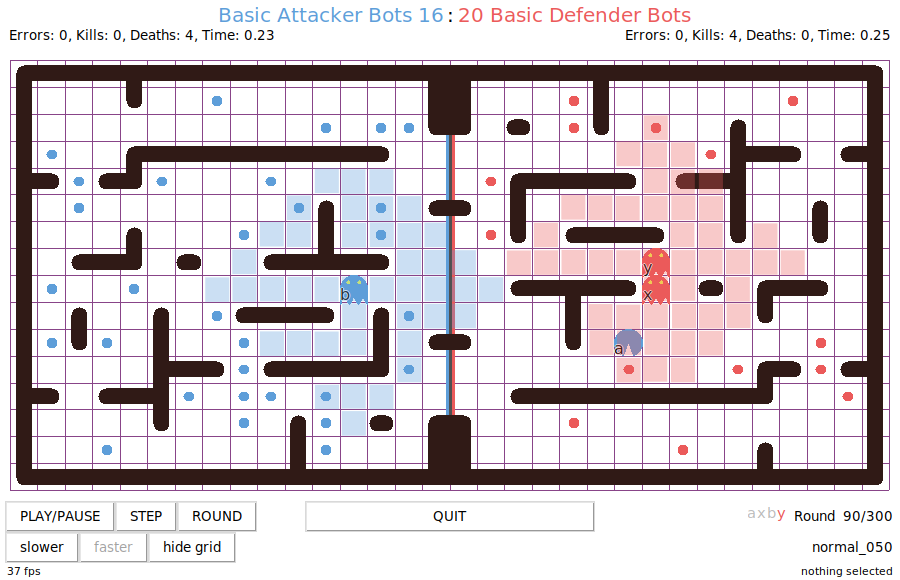
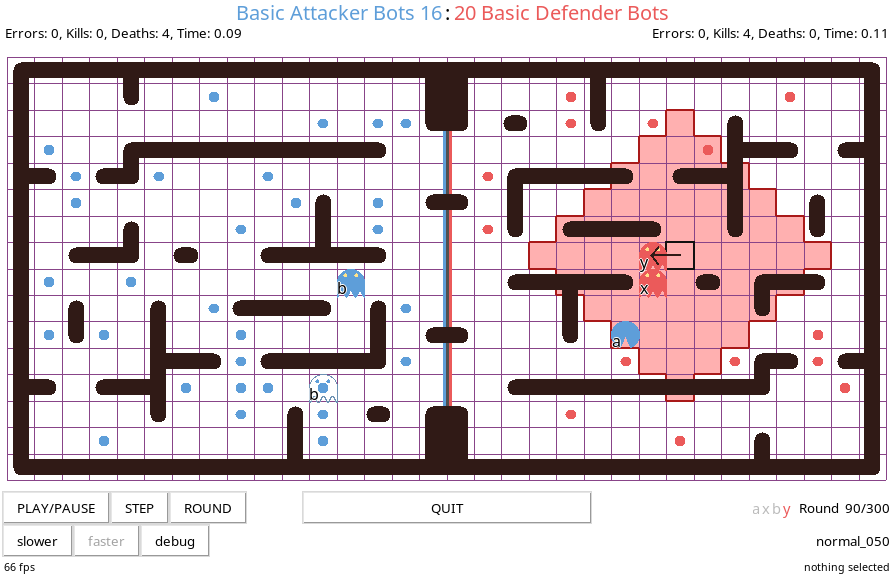
updated text and screenshot for is_noisy

diff --git a/README.md b/README.md
@@ -373,7 +373,7 @@ Note that the `Bot` object is read-only, i.e. any modifications you make to that
 
 - **`bot.enemy[0].team_name`** you can also inspect the enemy team name with `bot.enemy[0].team_name`.
 
-- **`bot.enemy[0].is_noisy`**  <a id="is-noisy"></a> your bot has a sight-radius of 5 squares. This means that when an enemy bot is located more than 5 squares away from your bot, `bot.enemy[0].position` will not be exact and `bot.enemy[0].is_noisy` will be `True`. The sight-radius for red bot `y` is the red area in the picture below. Red bot `y` will see the exact position of blue bot `a`, because it falls into its sight-radius. Instead, red bot `y` will see blue bot `b` as if it were located in one random legal position up to 5 squares away from its true position (this is the noise-radius, the blue area around blue bot `b` in the picture). An example of using the `is_noisy` property is given in [demo05_basic_defender.py](demo05_basic_defender.py).
+- **`bot.enemy[0].is_noisy`**  <a id="is-noisy"></a> your bot has a sight-radius of 5 squares. This means that when an enemy bot is located more than 5 squares away from your bot, `bot.enemy[0].position` will not be exact and `bot.enemy[0].is_noisy` will be `True`. The sight-radius for red bot `y` is the red area in the picture below. Red bot `y` will see the exact position of blue bot `a`, because it falls into its sight-radius. Instead, red bot `y` will see blue bot `b` as if it were located in one random legal position up to 5 squares away from its true position. An example of using the `is_noisy` property is given in [demo05_basic_defender.py](demo05_basic_defender.py).
 
 ![](pelita_GUI_noise.png)
 
